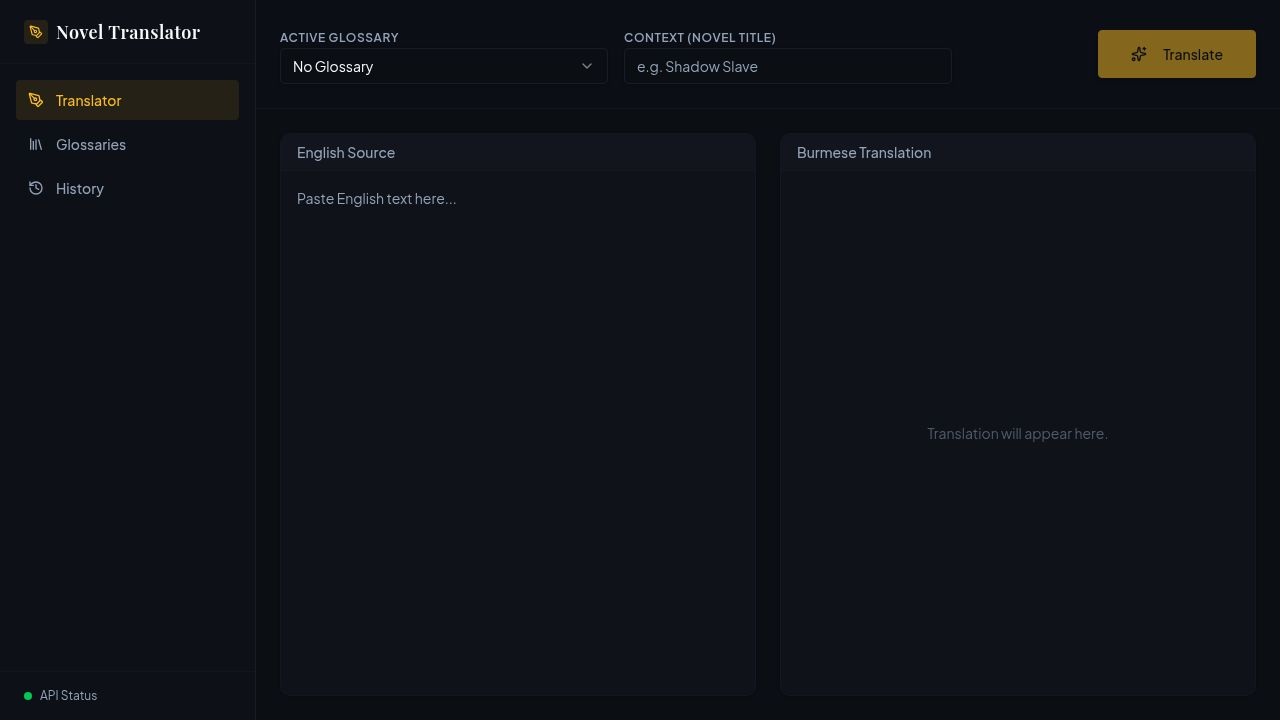
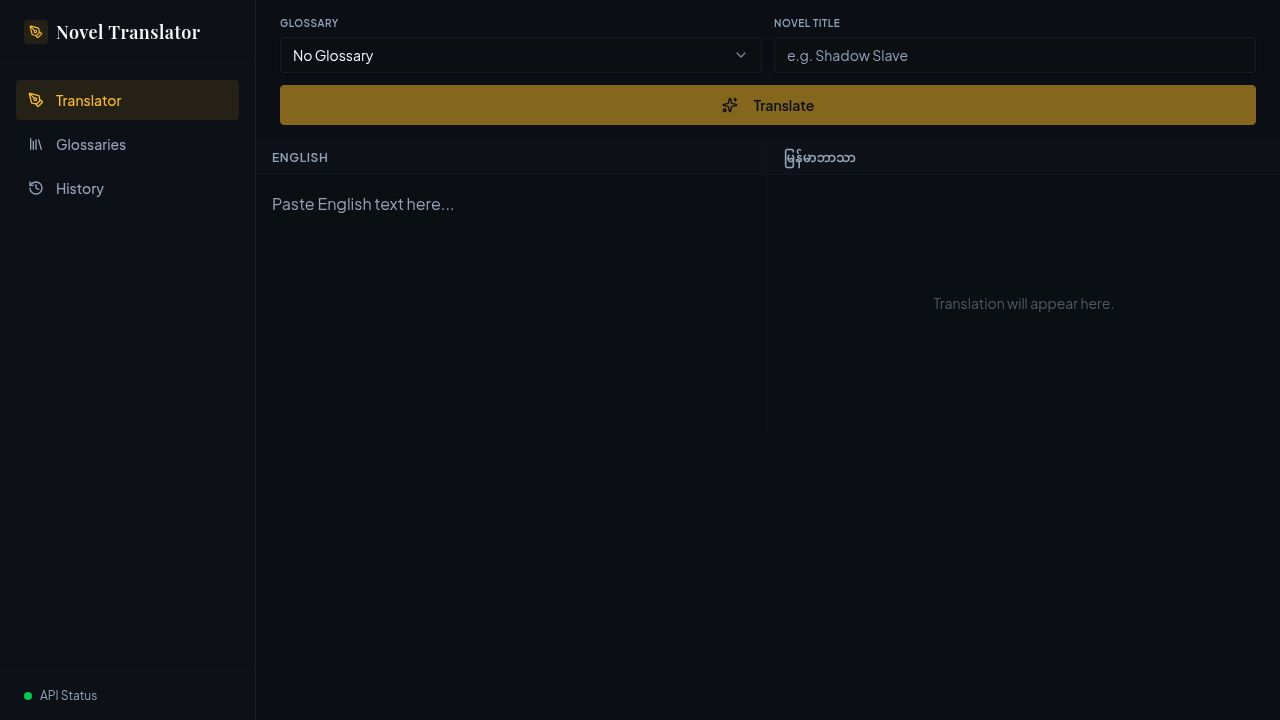
Improve mobile experience and translation accuracy
Update API to enforce verbatim translation with no English remnants and refactor UI for better mobile responsiveness, including a new bottom navigation bar.

Replit-Commit-Author: Agent
Replit-Commit-Session-Id: 0d7e0f71-8c6e-414e-b134-5d0157d4b7a2
Replit-Commit-Checkpoint-Type: full_checkpoint
Replit-Commit-Event-Id: c92bacee-14a3-4559-aca4-1c5b0f3d0fe4
Replit-Commit-Screenshot-Url: https://storage.googleapis.com/screenshot-production-us-central1/77233379-2c29-460a-8203-4bf1872fb8ea/0d7e0f71-8c6e-414e-b134-5d0157d4b7a2/Fi0ofBc
Replit-Helium-Checkpoint-Created: true

diff --git a/artifacts/novel-translator/src/pages/translator.tsx b/artifacts/novel-translator/src/pages/translator.tsx
@@ -5,7 +5,6 @@ import { Textarea } from "@/components/ui/textarea";
 import { Select, SelectContent, SelectItem, SelectTrigger, SelectValue } from "@/components/ui/select";
 import { Label } from "@/components/ui/label";
 import { Input } from "@/components/ui/input";
-import { Card, CardContent } from "@/components/ui/card";
 import { Badge } from "@/components/ui/badge";
 import { ArrowRight, Copy, Loader2, Sparkles, AlertCircle, Library } from "lucide-react";
 import { useToast } from "@/hooks/use-toast";
@@ -16,7 +15,7 @@ export default function TranslatorPage() {
   const [glossaryId, setGlossaryId] = useState<string>("none");
   const [novelTitle, setNovelTitle] = useState("");
 
-  const { data: glossaries, isLoading: isGlossariesLoading } = useListGlossaries({
+  const { data: glossaries } = useListGlossaries({
     query: { queryKey: getListGlossariesQueryKey() }
   });
 
@@ -24,7 +23,6 @@ export default function TranslatorPage() {
 
   const handleTranslate = () => {
     if (!sourceText.trim()) return;
-
     translateMutation.mutate({
       data: {
         text: sourceText,
@@ -32,10 +30,10 @@ export default function TranslatorPage() {
         novelTitle: novelTitle.trim() || undefined,
       }
     }, {
-      onError: (err) => {
+      onError: () => {
         toast({
           title: "Translation failed",
-          description: "An error occurred while translating. Please try again.",
+          description: "An error occurred. Please try again.",
           variant: "destructive",
         });
       }
@@ -45,70 +43,72 @@ export default function TranslatorPage() {
   const copyToClipboard = async () => {
     if (translateMutation.data?.translatedText) {
       await navigator.clipboard.writeText(translateMutation.data.translatedText);
-      toast({
-        title: "Copied",
-        description: "Translation copied to clipboard.",
-      });
+      toast({ title: "Copied", description: "Translation copied to clipboard." });
     }
   };
 
   return (
-    <div className="flex flex-col h-full bg-background/50">
-      {/* Header Controls */}
-      <div className="flex-none p-4 md:p-6 border-b border-border/50 bg-card/30 flex flex-col md:flex-row gap-4 items-start md:items-center justify-between">
-        <div className="flex items-center gap-4 flex-wrap flex-1 w-full md:max-w-2xl">
-          <div className="space-y-1.5 flex-1 min-w-[200px]">
-            <Label className="text-xs text-muted-foreground uppercase tracking-wider font-semibold">Active Glossary</Label>
-            <Select value={glossaryId} onValueChange={setGlossaryId}>
-              <SelectTrigger className="w-full bg-background">
-                <SelectValue placeholder="Select glossary" />
-              </SelectTrigger>
-              <SelectContent>
-                <SelectItem value="none">No Glossary</SelectItem>
-                {glossaries?.map((g) => (
-                  <SelectItem key={g.id} value={g.id.toString()}>{g.name}</SelectItem>
-                ))}
-              </SelectContent>
-            </Select>
+    <div className="flex flex-col h-full bg-background/50 overflow-hidden">
+      {/* Controls */}
+      <div className="flex-none px-4 py-3 md:px-6 md:py-4 border-b border-border/50 bg-card/30">
+        <div className="flex flex-col gap-3">
+          <div className="flex gap-3">
+            <div className="flex-1 min-w-0">
+              <Label className="text-[10px] text-muted-foreground uppercase tracking-wider font-semibold mb-1.5 block">Glossary</Label>
+              <Select value={glossaryId} onValueChange={setGlossaryId}>
+                <SelectTrigger className="w-full bg-background h-9 text-sm" data-testid="select-glossary">
+                  <SelectValue placeholder="No Glossary" />
+                </SelectTrigger>
+                <SelectContent>
+                  <SelectItem value="none">No Glossary</SelectItem>
+                  {glossaries?.map((g) => (
+                    <SelectItem key={g.id} value={g.id.toString()}>{g.name}</SelectItem>
+                  ))}
+                </SelectContent>
+              </Select>
+            </div>
+            <div className="flex-1 min-w-0">
+              <Label className="text-[10px] text-muted-foreground uppercase tracking-wider font-semibold mb-1.5 block">Novel Title</Label>
+              <Input
+                placeholder="e.g. Shadow Slave"
+                value={novelTitle}
+                onChange={(e) => setNovelTitle(e.target.value)}
+                className="bg-background h-9 text-sm"
+              />
+            </div>
           </div>
-
-          <div className="space-y-1.5 flex-1 min-w-[200px]">
-            <Label className="text-xs text-muted-foreground uppercase tracking-wider font-semibold">Context (Novel Title)</Label>
-            <Input 
-              placeholder="e.g. Shadow Slave" 
-              value={novelTitle} 
-              onChange={(e) => setNovelTitle(e.target.value)}
-              className="bg-background"
-            />
-          </div>
+          <Button
+            onClick={handleTranslate}
+            disabled={!sourceText.trim() || translateMutation.isPending}
+            className="w-full h-10 font-semibold"
+            data-testid="button-translate"
+          >
+            {translateMutation.isPending ? (
+              <Loader2 className="mr-2 h-4 w-4 animate-spin" />
+            ) : (
+              <Sparkles className="mr-2 h-4 w-4" />
+            )}
+            {translateMutation.isPending ? "Translating..." : "Translate"}
+          </Button>
         </div>
-
-        <Button 
-          onClick={handleTranslate} 
-          disabled={!sourceText.trim() || translateMutation.isPending}
-          className="w-full md:w-auto h-12 px-8 shadow-md"
-          data-testid="button-translate"
-        >
-          {translateMutation.isPending ? (
-            <Loader2 className="mr-2 h-4 w-4 animate-spin" />
-          ) : (
-            <Sparkles className="mr-2 h-4 w-4" />
-          )}
-          Translate
-        </Button>
       </div>
 
-      {/* Editor Area */}
-      <div className="flex-1 overflow-hidden p-4 md:p-6">
-        <div className="grid md:grid-cols-2 gap-4 md:gap-6 h-full">
-          
+      {/* Editor Area — stacks on mobile, side-by-side on desktop */}
+      <div className="flex-1 overflow-hidden">
+        <div className="flex flex-col md:grid md:grid-cols-2 h-full">
+
           {/* Source Panel */}
-          <div className="flex flex-col h-full border border-border/50 rounded-xl bg-card shadow-sm overflow-hidden focus-within:ring-1 focus-within:ring-primary/50 transition-shadow">
-            <div className="px-4 py-2 border-b border-border/50 bg-muted/20 flex justify-between items-center">
-              <span className="text-sm font-medium text-muted-foreground">English Source</span>
+          <div className="flex flex-col border-b md:border-b-0 md:border-r border-border/50 overflow-hidden" style={{ height: "50%" }}>
+            <div className="px-4 py-2 border-b border-border/50 bg-muted/20 flex justify-between items-center shrink-0">
+              <span className="text-xs font-semibold text-muted-foreground uppercase tracking-wider">English</span>
+              {sourceText && (
+                <span className="text-[10px] text-muted-foreground/60 font-mono">
+                  {sourceText.split(/\s+/).filter(Boolean).length} words
+                </span>
+              )}
             </div>
-            <Textarea 
-              className="flex-1 resize-none border-0 focus-visible:ring-0 p-4 rounded-none text-base leading-relaxed bg-transparent"
+            <Textarea
+              className="flex-1 resize-none border-0 focus-visible:ring-0 p-4 rounded-none text-sm md:text-base leading-relaxed bg-transparent"
               placeholder="Paste English text here..."
               value={sourceText}
               onChange={(e) => setSourceText(e.target.value)}
@@ -117,22 +117,22 @@ export default function TranslatorPage() {
           </div>
 
           {/* Target Panel */}
-          <div className="flex flex-col h-full border border-border/50 rounded-xl bg-card shadow-sm overflow-hidden relative group">
-            <div className="px-4 py-2 border-b border-border/50 bg-muted/20 flex justify-between items-center">
-              <span className="text-sm font-medium text-muted-foreground">Burmese Translation</span>
+          <div className="flex flex-col overflow-hidden" style={{ height: "50%" }}>
+            <div className="px-4 py-2 border-b border-border/50 bg-muted/20 flex justify-between items-center shrink-0">
+              <span className="text-xs font-semibold text-muted-foreground uppercase tracking-wider">မြန်မာဘာသာ</span>
               {translateMutation.data?.translatedText && (
-                <Button variant="ghost" size="sm" className="h-8 gap-1" onClick={copyToClipboard}>
-                  <Copy className="h-3.5 w-3.5" />
-                  <span className="sr-only sm:not-sr-only text-xs">Copy</span>
+                <Button variant="ghost" size="sm" className="h-7 gap-1.5 text-xs" onClick={copyToClipboard}>
+                  <Copy className="h-3 w-3" />
+                  Copy
                 </Button>
               )}
             </div>
-            
-            <div className="flex-1 p-4 overflow-y-auto text-base leading-relaxed">
+
+            <div className="flex-1 overflow-y-auto p-4 text-sm md:text-base leading-relaxed">
               {translateMutation.isPending ? (
-                <div className="h-full flex flex-col items-center justify-center text-muted-foreground space-y-4">
-                  <Loader2 className="h-8 w-8 animate-spin text-primary/50" />
-                  <p className="text-sm animate-pulse">Translating contextually...</p>
+                <div className="h-full flex flex-col items-center justify-center text-muted-foreground space-y-3">
+                  <Loader2 className="h-7 w-7 animate-spin text-primary/50" />
+                  <p className="text-sm animate-pulse">Translating...</p>
                 </div>
               ) : translateMutation.data ? (
                 <div className="whitespace-pre-wrap font-serif" data-testid="text-translated">
@@ -140,28 +140,28 @@ export default function TranslatorPage() {
                 </div>
               ) : translateMutation.isError ? (
                 <div className="h-full flex flex-col items-center justify-center text-destructive/80 space-y-2">
-                  <AlertCircle className="h-8 w-8" />
-                  <p className="text-sm">Translation failed</p>
+                  <AlertCircle className="h-7 w-7" />
+                  <p className="text-sm">Translation failed. Try again.</p>
                 </div>
               ) : (
-                <div className="h-full flex items-center justify-center text-muted-foreground/50">
-                  <p className="text-sm">Translation will appear here.</p>
+                <div className="h-full flex items-center justify-center">
+                  <p className="text-sm text-muted-foreground/50">Translation will appear here.</p>
                 </div>
               )}
             </div>
-            
-            {/* Applied Terms Display */}
+
+            {/* Applied Terms */}
             {translateMutation.data?.appliedTerms && translateMutation.data.appliedTerms.length > 0 && (
-              <div className="border-t border-border/50 bg-muted/10 p-3 max-h-48 overflow-y-auto">
-                <div className="text-xs font-semibold text-muted-foreground mb-2 flex items-center gap-1.5">
-                  <Library className="w-3.5 h-3.5" /> 
-                  Applied Glossary Terms
+              <div className="border-t border-border/50 bg-muted/10 px-4 py-3 shrink-0">
+                <div className="text-[10px] font-semibold text-muted-foreground mb-2 flex items-center gap-1.5 uppercase tracking-wider">
+                  <Library className="w-3 h-3" />
+                  Applied Terms
                 </div>
-                <div className="flex flex-wrap gap-2">
+                <div className="flex flex-wrap gap-1.5">
                   {translateMutation.data.appliedTerms.map((term, i) => (
-                    <Badge key={i} variant="secondary" className="bg-background/50 border border-border/50 text-xs font-normal">
+                    <Badge key={i} variant="secondary" className="bg-background/50 border border-border/50 text-xs font-normal py-0.5">
                       <span className="text-muted-foreground">{term.english}</span>
-                      <ArrowRight className="w-3 h-3 mx-1 text-muted-foreground/50" />
+                      <ArrowRight className="w-2.5 h-2.5 mx-1 text-muted-foreground/50" />
                       <span className="text-primary">{term.burmese}</span>
                     </Badge>
                   ))}

diff --git a/artifacts/novel-translator/src/components/layout.tsx b/artifacts/novel-translator/src/components/layout.tsx
@@ -1,14 +1,12 @@
-import React from "react";
+import React, { useState } from "react";
 import { Link, useLocation } from "wouter";
-import { PenTool, Library, History as HistoryIcon, Settings2, Moon, Sun } from "lucide-react";
-import { useTheme } from "@/components/theme-provider";
+import { PenTool, Library, History as HistoryIcon, X, Menu } from "lucide-react";
 import { useHealthCheck } from "@workspace/api-client-react";
 
 export function AppLayout({ children }: { children: React.ReactNode }) {
   const [location] = useLocation();
-  const { theme, setTheme } = useTheme();
-  
-  // Optional: display online/offline status subtly
+  const [mobileMenuOpen, setMobileMenuOpen] = useState(false);
+
   const { isSuccess } = useHealthCheck();
 
   const navItems = [
@@ -17,10 +15,13 @@ export function AppLayout({ children }: { children: React.ReactNode }) {
     { label: "History", href: "/history", icon: HistoryIcon },
   ];
 
+  const isActive = (href: string) =>
+    href === "/" ? location === "/" : location.startsWith(href);
+
   return (
     <div className="flex h-screen w-full bg-background overflow-hidden selection:bg-primary/20 selection:text-primary">
-      {/* Sidebar */}
-      <aside className="w-64 border-r border-border bg-sidebar flex flex-col justify-between shrink-0">
+      {/* Desktop Sidebar */}
+      <aside className="hidden md:flex w-64 border-r border-border bg-sidebar flex-col justify-between shrink-0">
         <div>
           <div className="h-16 flex items-center px-6 border-b border-border/50">
             <h1 className="text-lg font-serif font-semibold tracking-wide text-foreground flex items-center gap-2">
@@ -30,17 +31,17 @@ export function AppLayout({ children }: { children: React.ReactNode }) {
               Novel Translator
             </h1>
           </div>
-          
+
           <nav className="p-4 space-y-1">
             {navItems.map((item) => {
-              const active = location === item.href || (item.href !== "/" && location.startsWith(item.href));
+              const active = isActive(item.href);
               return (
                 <Link
                   key={item.href}
                   href={item.href}
                   className={`flex items-center gap-3 px-3 py-2.5 rounded-md text-sm font-medium transition-colors ${
-                    active 
-                      ? "bg-primary/10 text-primary" 
+                    active
+                      ? "bg-primary/10 text-primary"
                       : "text-muted-foreground hover:bg-muted hover:text-foreground"
                   }`}
                   data-testid={`nav-${item.label.toLowerCase()}`}
@@ -53,22 +54,54 @@ export function AppLayout({ children }: { children: React.ReactNode }) {
           </nav>
         </div>
 
-        <div className="p-4 border-t border-border/50 space-y-4">
-          <div className="flex items-center justify-between text-xs text-muted-foreground px-2">
-            <span className="flex items-center gap-2">
-              <span className={`w-2 h-2 rounded-full ${isSuccess ? "bg-green-500" : "bg-red-500"}`} />
-              API Status
-            </span>
+        <div className="p-4 border-t border-border/50">
+          <div className="flex items-center gap-2 text-xs text-muted-foreground px-2">
+            <span className={`w-2 h-2 rounded-full ${isSuccess ? "bg-green-500" : "bg-red-500"}`} />
+            API Status
           </div>
         </div>
       </aside>
 
+      {/* Mobile Top Bar */}
+      <div className="md:hidden fixed top-0 left-0 right-0 z-40 h-14 bg-background border-b border-border flex items-center justify-between px-4">
+        <h1 className="text-base font-serif font-semibold text-foreground flex items-center gap-2">
+          <span className="w-5 h-5 rounded bg-primary/10 text-primary flex items-center justify-center">
+            <PenTool className="w-3 h-3" />
+          </span>
+          Novel Translator
+        </h1>
+        <div className="flex items-center gap-2">
+          <span className={`w-2 h-2 rounded-full ${isSuccess ? "bg-green-500" : "bg-red-500"}`} />
+        </div>
+      </div>
+
       {/* Main Content */}
-      <main className="flex-1 flex flex-col h-full overflow-hidden relative">
-        {/* Subtle noise texture over everything */}
+      <main className="flex-1 flex flex-col h-full overflow-hidden relative pt-14 pb-16 md:pt-0 md:pb-0">
         <div className="absolute inset-0 pointer-events-none opacity-[0.015] mix-blend-overlay z-50 bg-[url('https://grainy-gradients.vercel.app/noise.svg')]" />
         {children}
       </main>
+
+      {/* Mobile Bottom Navigation */}
+      <nav className="md:hidden fixed bottom-0 left-0 right-0 z-40 h-16 bg-background border-t border-border flex items-stretch">
+        {navItems.map((item) => {
+          const active = isActive(item.href);
+          return (
+            <Link
+              key={item.href}
+              href={item.href}
+              className={`flex-1 flex flex-col items-center justify-center gap-1 text-[10px] font-medium transition-colors ${
+                active
+                  ? "text-primary bg-primary/5"
+                  : "text-muted-foreground"
+              }`}
+              data-testid={`mobile-nav-${item.label.toLowerCase()}`}
+            >
+              <item.icon className={`w-5 h-5 ${active ? "text-primary" : ""}`} />
+              {item.label}
+            </Link>
+          );
+        })}
+      </nav>
     </div>
   );
 }

diff --git a/artifacts/api-server/src/routes/translation.ts b/artifacts/api-server/src/routes/translation.ts
@@ -42,14 +42,22 @@ router.post("/translate", async (req, res) => {
     ? `\nThis is a chapter from the novel: "${novelTitle}".`
     : "";
 
-  const prompt = `You are a professional literary translator specializing in translating WebNovels from English to Burmese (Myanmar language). Your goal is to produce a natural, engaging Burmese translation that readers will enjoy — not a literal word-for-word translation.${contextSection}${glossarySection}
+  const prompt = `သင်သည် WebNovel များကို အင်္ဂလိပ်ဘာသာမှ မြန်မာဘာသာသို့ ဘာသာပြန်ရာတွင် ကျွမ်းကျင်သော ဝတ္ထုဘာသာပြန်ဆရာဖြစ်သည်။${contextSection}${glossarySection}
 
-Translate the following English text to Burmese. Keep the tone, style, and narrative energy of the original. Preserve paragraph breaks.
+အောက်ပါ စည်းမျဉ်းများကို တင်းကြပ်စွာ လိုက်နာပါ။
 
-English text:
+**မဖြစ်မနေ လိုက်နာရမည့် စည်းမျဉ်းများ:**
+1. မူရင်း English စာသားထဲရှိ စကားလုံးတိုင်း၊ ဝါကျတိုင်းကို မကျော်မဖြတ်ပဲ အပြည့်အစုံ ဘာသာပြန်ရမည်။ တစ်လုံးမှ မကျော်ရ။
+2. ဘာသာပြန်ထားသော output တွင် အင်္ဂလိပ်စကားလုံး တစ်လုံးမှ မပါရ — character နာမည်၊ နေရာနာမည်၊ ကျင့်စဉ်အမည်၊ technique အမည် အားလုံးကိုပါ မြန်မာဘာသာဖြင့်သာ ရေးရမည် (Glossary တွင် သတ်မှတ်ထားသည့်အတိုင်း)။
+3. မည်သည့် content ကိုမှ အတိုချုံ့မရ၊ ကျန်ခဲ့မရ — dialog တိုင်း၊ narrative တိုင်း၊ description တိုင်းကို အသေးစိတ် ဘာသာပြန်ရမည်။
+4. မူရင်း paragraph နှင့် dialog structure ကို ထိန်းသိမ်းရမည်။
+5. ဖတ်ရှုသူများ စိတ်ဝင်စားနိုင်ရန် မြန်မာဘာသာ၏ သဘာဝနှင့် ညီညွတ်သော ဆီလျော်မှုရှိသော ဘာသာပြန်ချက်ဖြစ်ရမည်။
+6. Glossary တွင် သတ်မှတ်ထားသော term တိုင်းကို တစ်သမတ်တည်း ထိုနာမည်ဖြင့်သာ ဘာသာပြန်ရမည်။
+
+ဘာသာပြန်ရမည့် English စာသား:
 ${text}
 
-Burmese translation:`;
+မြန်မာဘာသာပြန်ချက် (မြန်မာဘာသာသာ ပါရမည်):`;
 
   const ai = getGeminiClient();
   const response = await ai.models.generateContent({